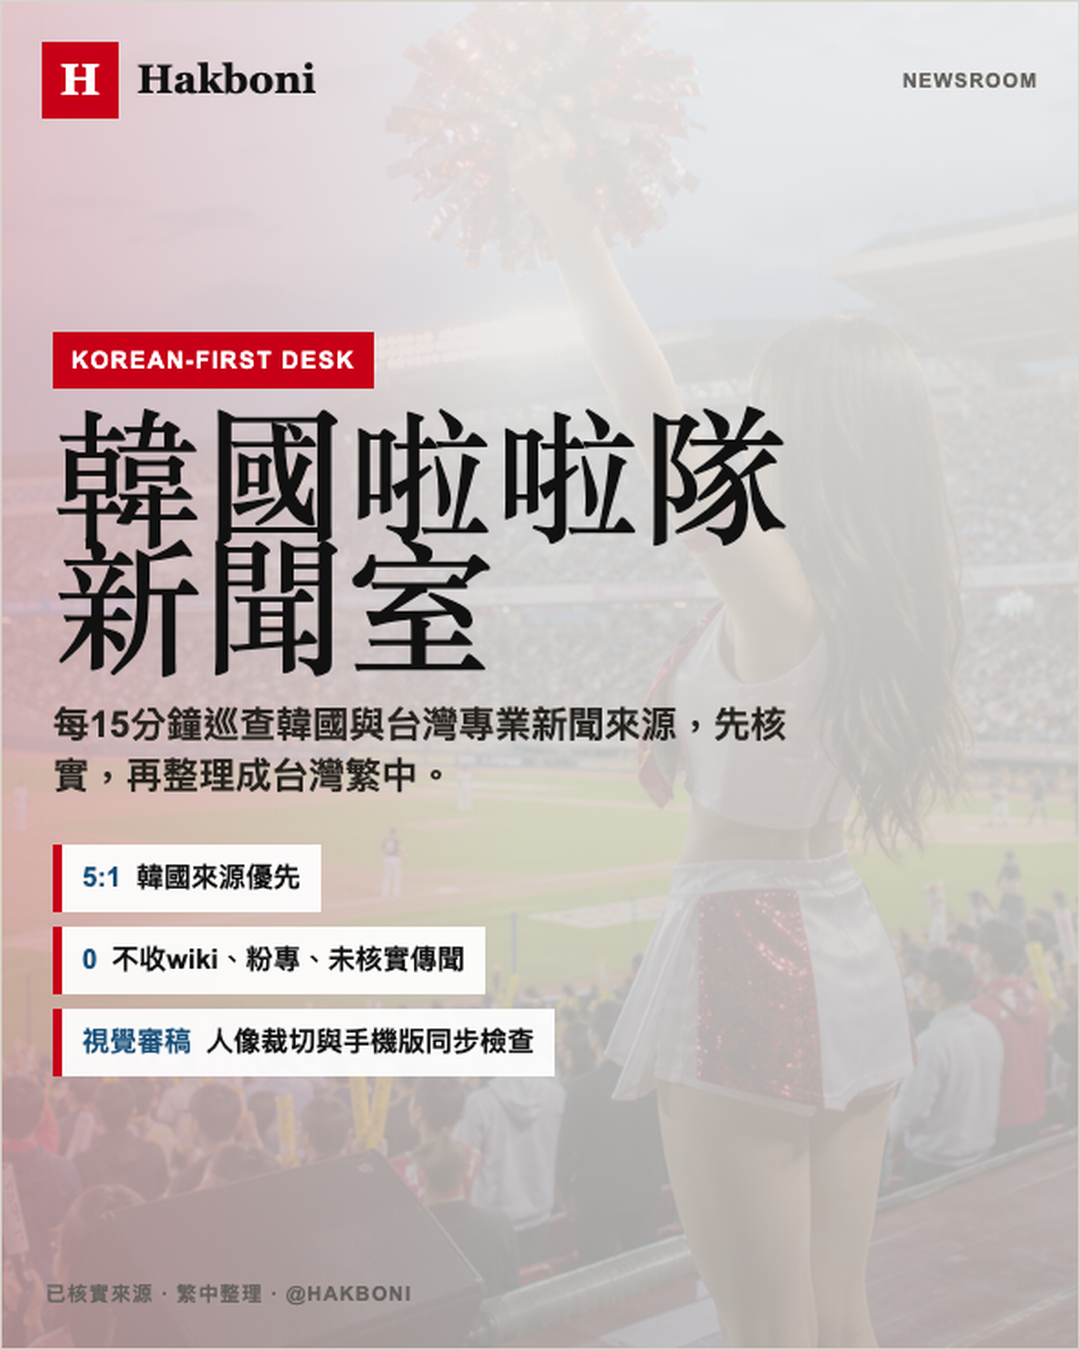
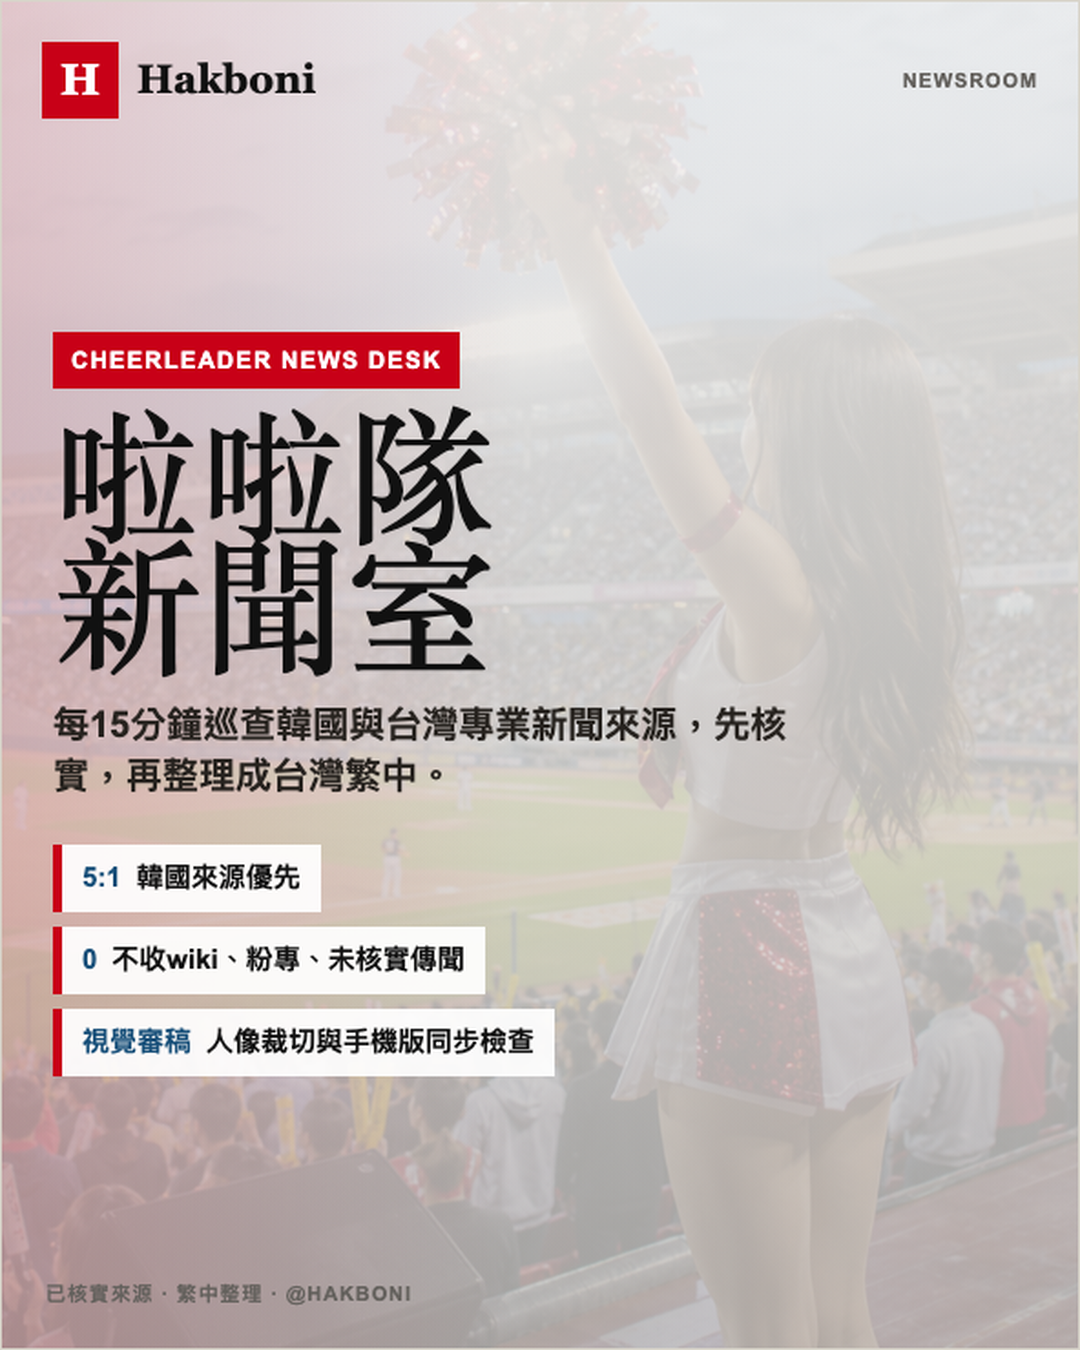
Rename newsroom Instagram promo desk

Changed region(s): [[0.0611, 0.2178, 0.7333, 0.4044]]

diff --git a/instagram/newsroom-promo.html b/instagram/newsroom-promo.html
@@ -24,9 +24,9 @@
           </div>
 
           <section>
-            <p class="newsroom-kicker">Korean-first desk</p>
+            <p class="newsroom-kicker">Cheerleader News Desk</p>
             <div class="newsroom-headline">
-              <h2>韓國啦啦隊<br>新聞室</h2>
+              <h2>啦啦隊<br>新聞室</h2>
               <p>每15分鐘巡查韓國與台灣專業新聞來源，先核實，再整理成台灣繁中。</p>
             </div>
             <div class="newsroom-rules">
